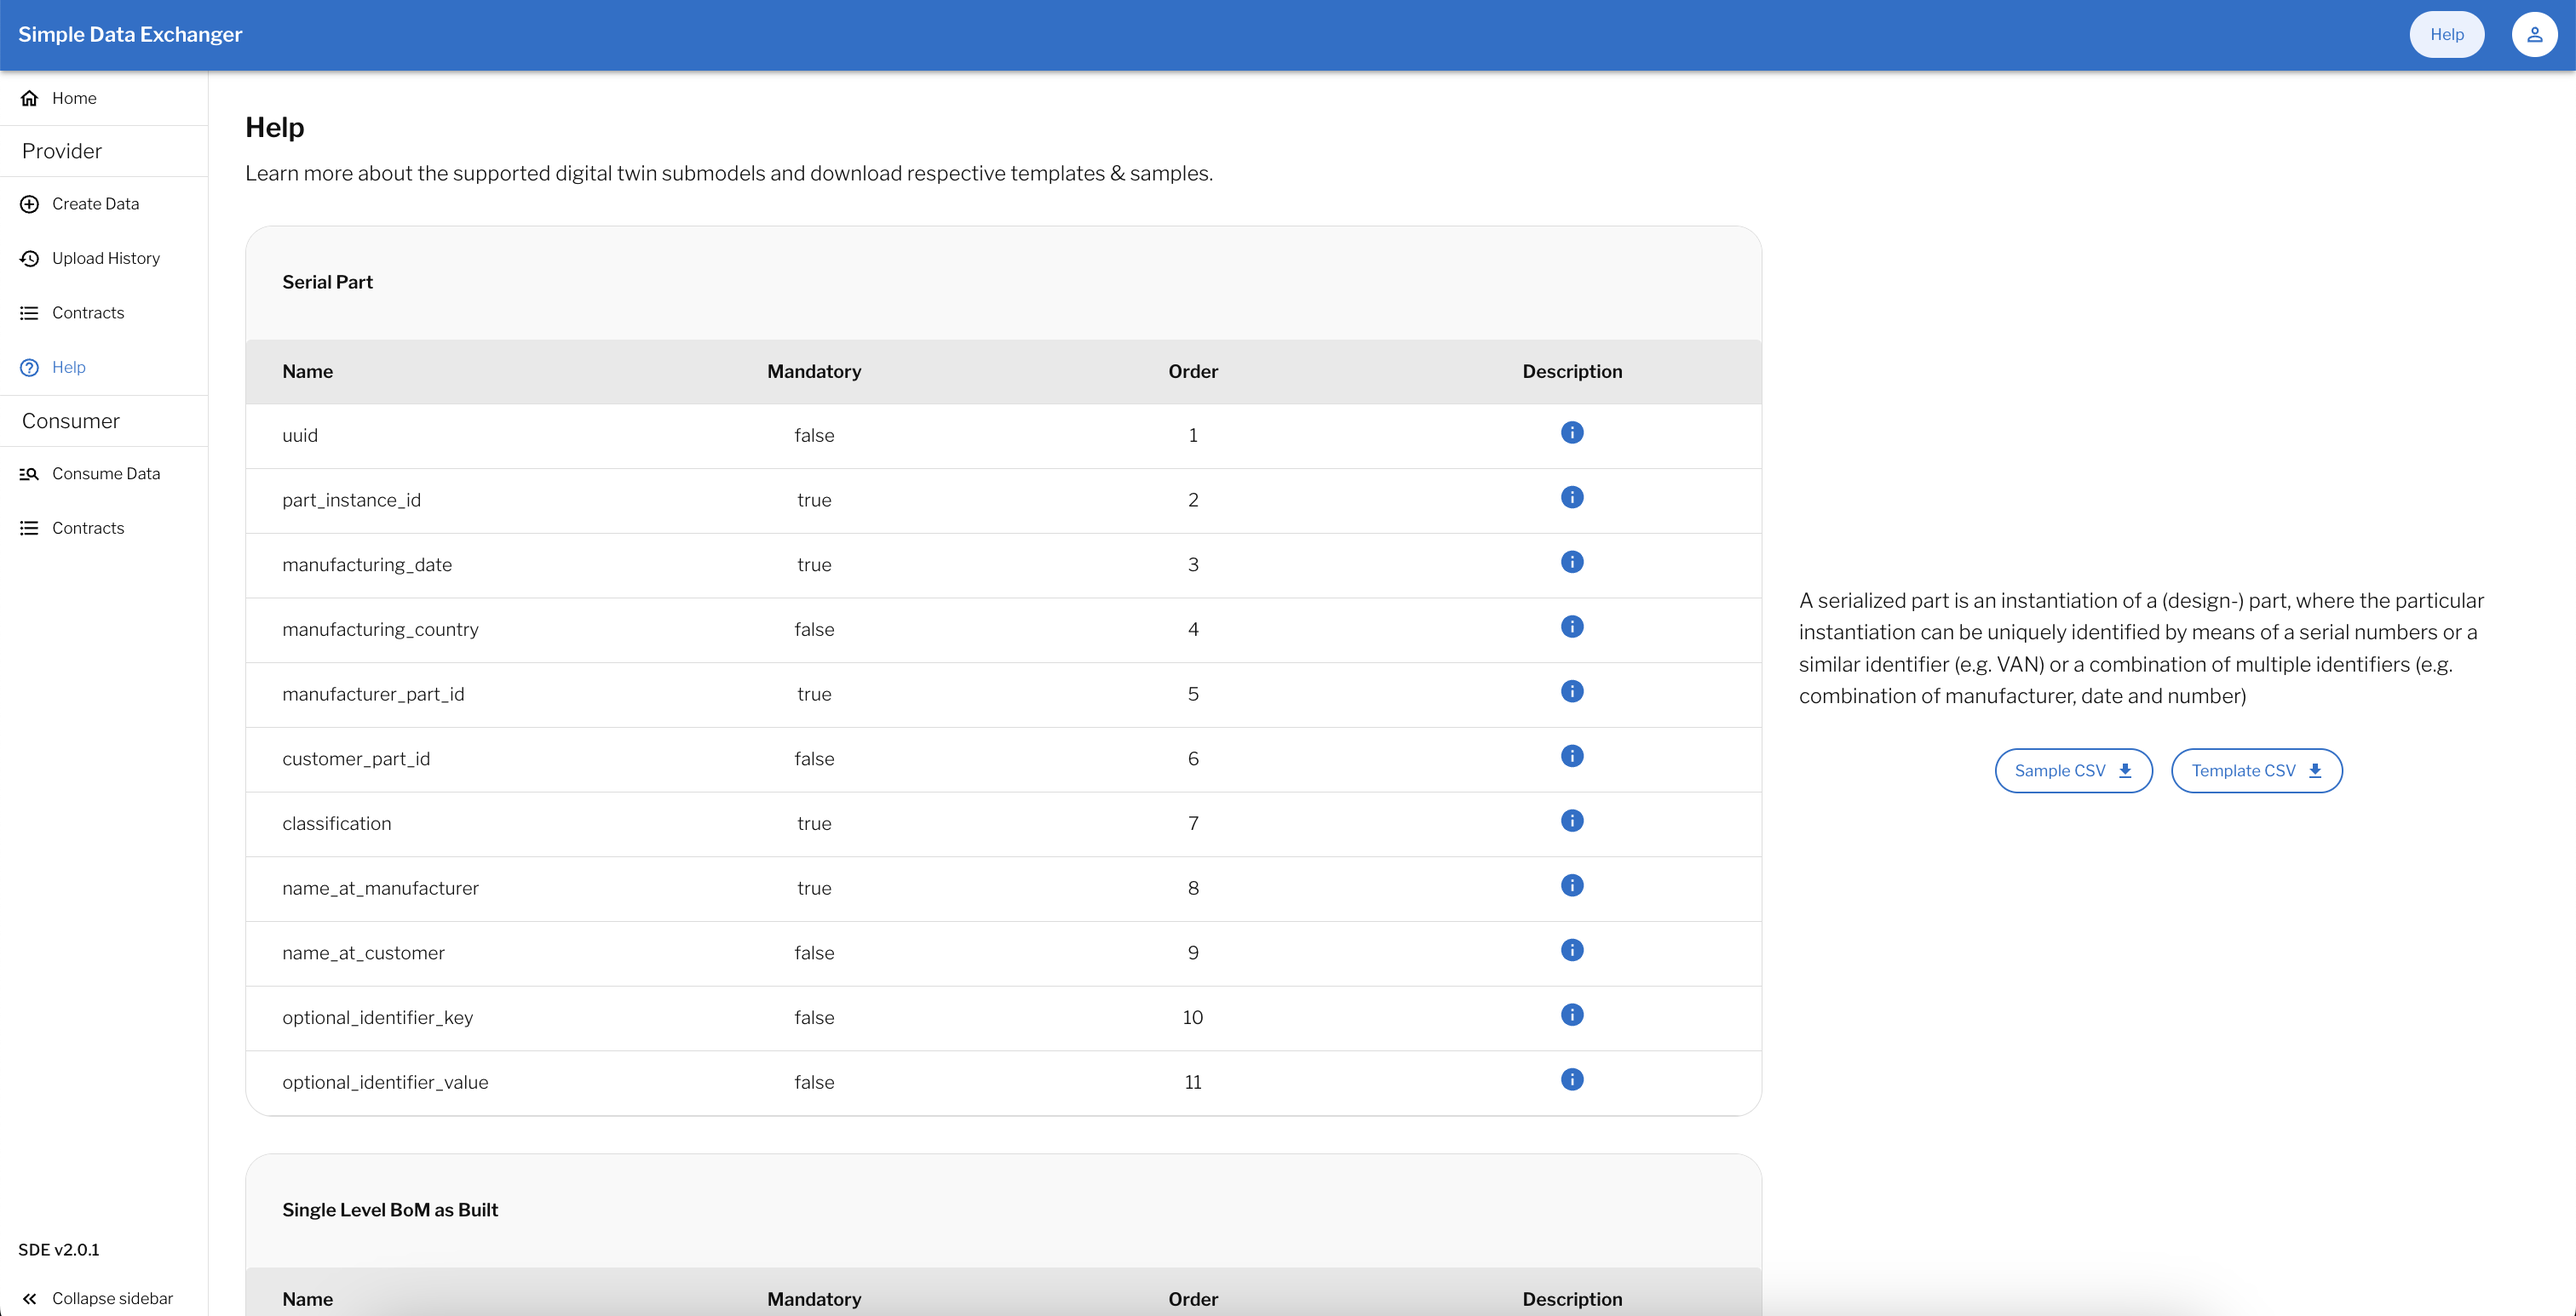
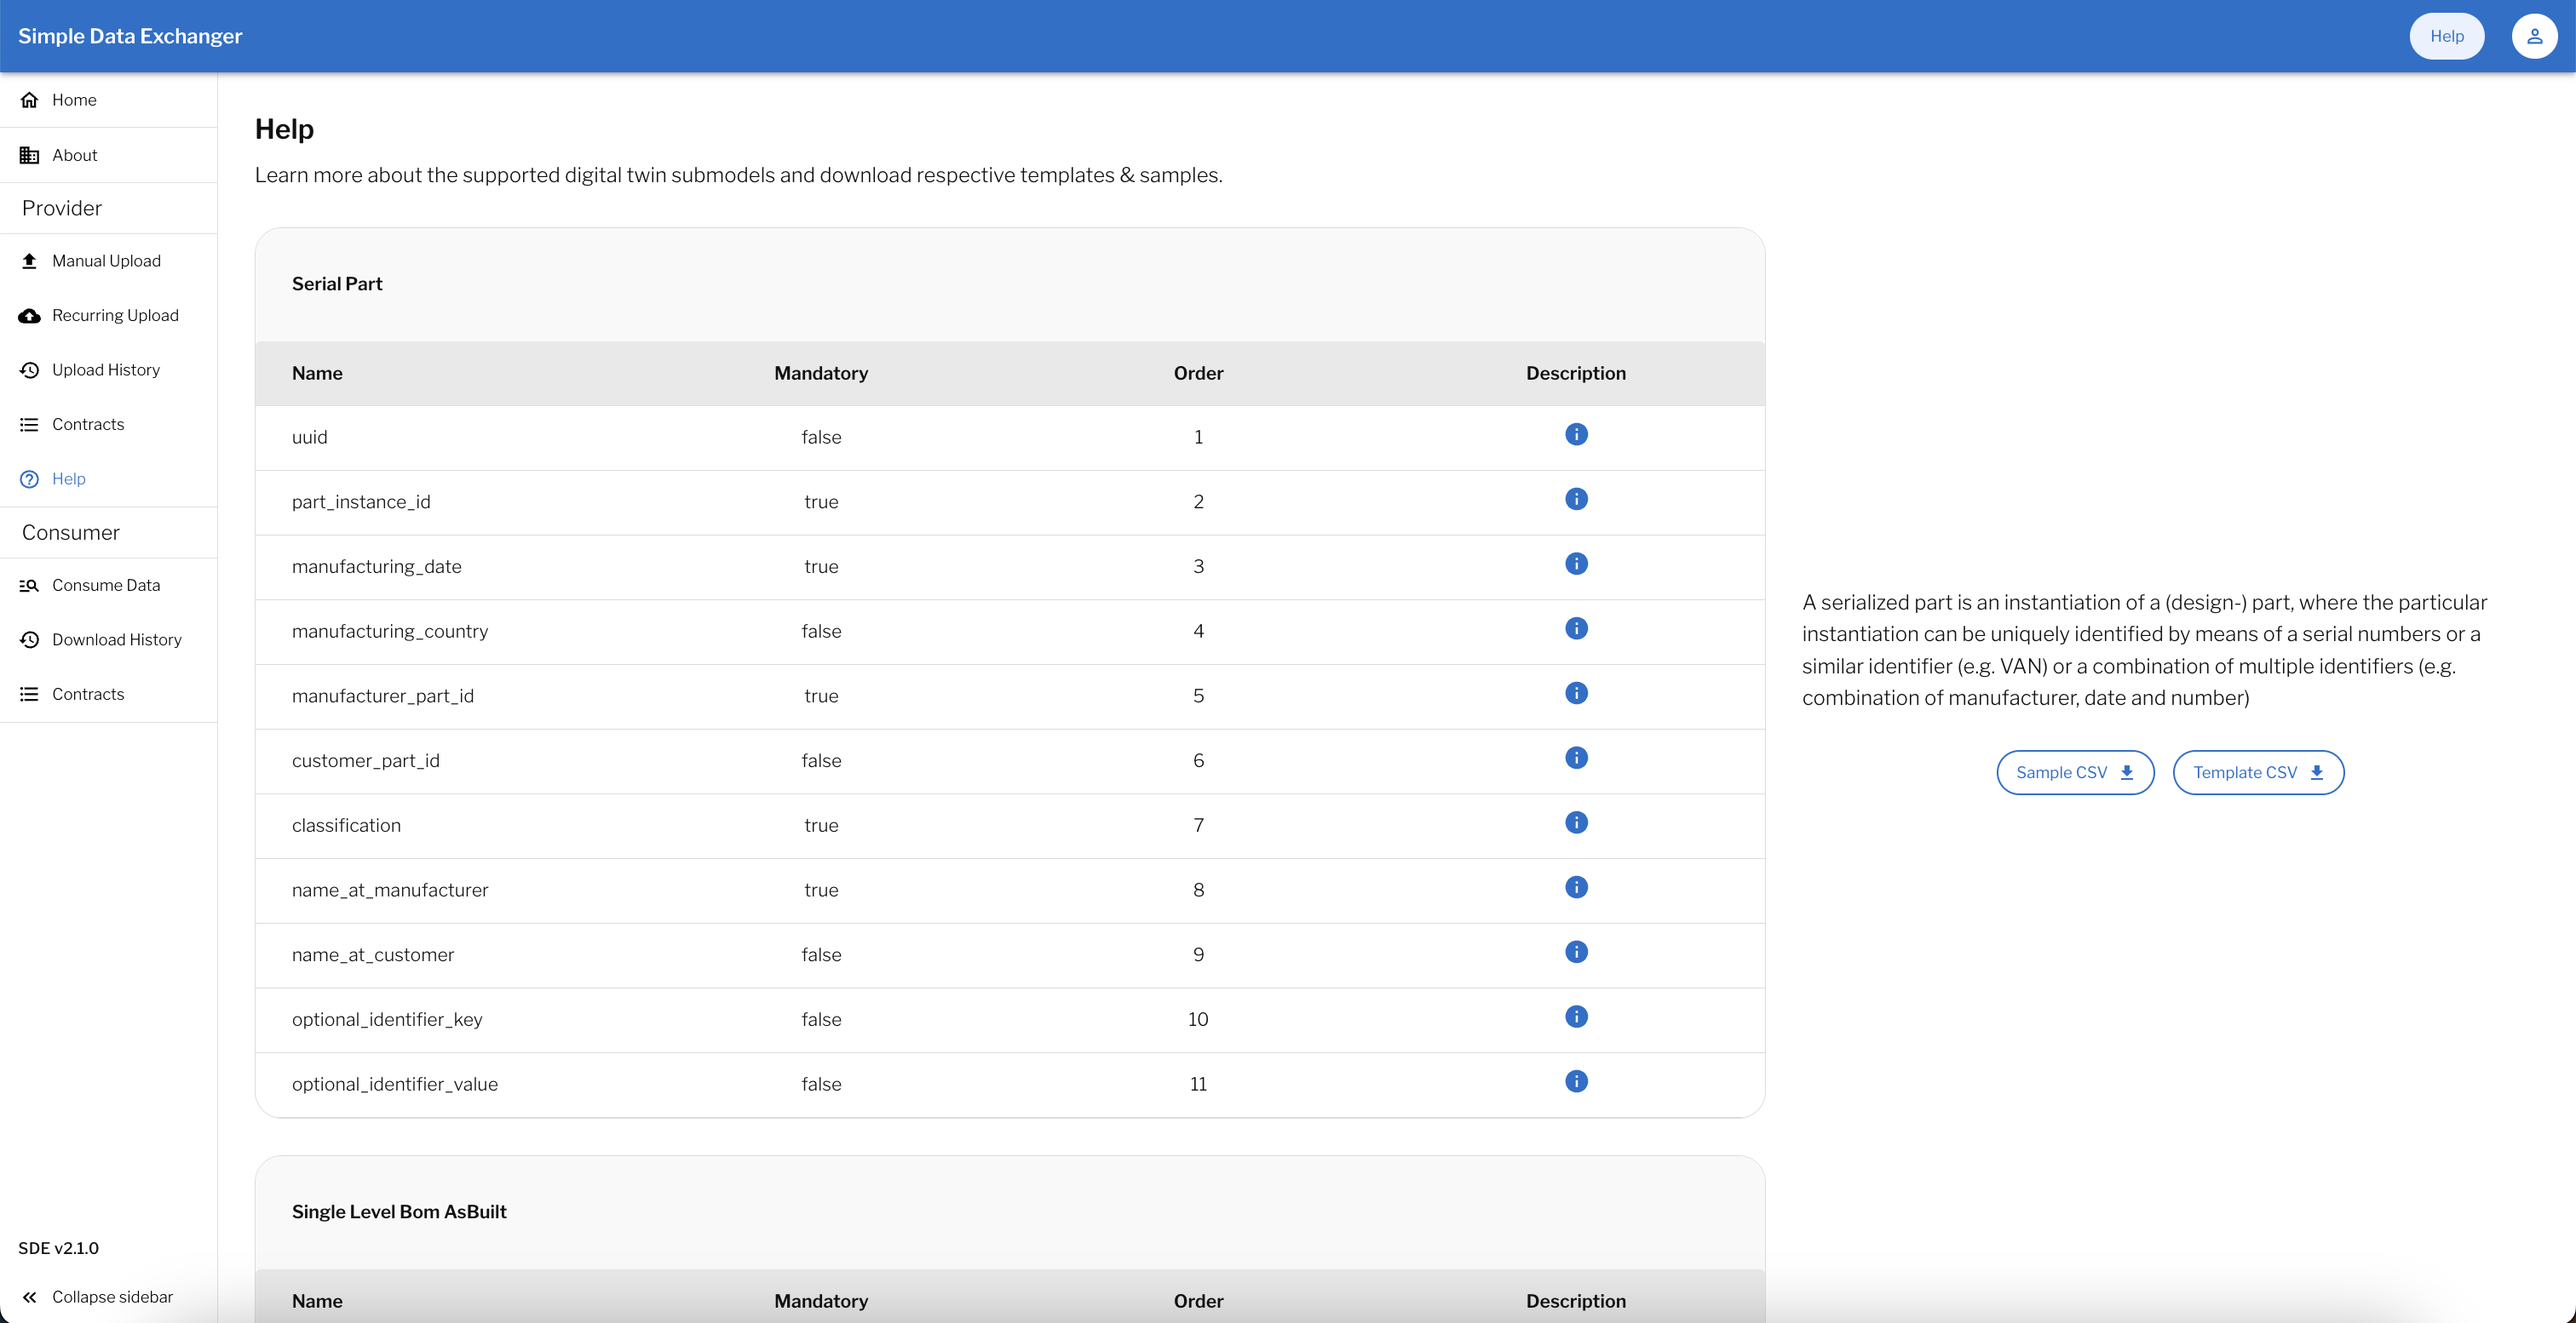
FE Documentation Update.

diff --git a/docs/user-guide/README.md b/docs/user-guide/README.md
@@ -20,8 +20,9 @@ This work is licensed under the [Apache-2.0](https://www.apache.org/licenses/LIC
     - [Main navigation](#left-side-menu)
 - [Features](#features)
   - [Home](#home)
+  - [About](#about)
   - [Provider](#provider)
-    - [Create Data](#create-data)
+    - [Manual Upload](#manual-upload)
       - [Upload File](#upload-file)
       - [Manual Entry](#manual-entry)
         - [Serial Part](#serial-part-typization)
@@ -32,11 +33,13 @@ This work is licensed under the [Apache-2.0](https://www.apache.org/licenses/LIC
         - [Part Site Information As Planned](#part-site-information-as-planned)
         - [Single Level Usage As Built](#single-level-usage-as-built)
         - [Product Carbon Footprint](#product-carbon-footprint)
+    - [Recurring Upload](#recurring upload)
     - [Upload history](#upload-history)
     - [Contracts](#provider-contracts)
     - [Help](#help)
   - [Consumer](#consumer)
     - [Consume Data](#consume-data)
+    - [Downlaod History](#download-history)
     - [Contracts](#consumer-contracts)
 
 # Getting started
@@ -83,10 +86,12 @@ SDE navigation is based on a header and a left-side menu.
 On the left side menu, it is possible to navigate the Simple Data Exchanger application by choosing each the following options / features:
 
 - Home
+- About
 
 **Provider**
 
-- Create Data
+- Manual Upload
+- Recurring Upload
 - Upload History
 - Contracts
 - Help
@@ -94,6 +99,7 @@ On the left side menu, it is possible to navigate the Simple Data Exchanger appl
 **Consumer**
 
 - Consume Data
+- Download History
 - Contracts
 
 [-- end of 'navigation' section --]: #
@@ -106,11 +112,17 @@ On the left side menu, it is possible to navigate the Simple Data Exchanger appl
 
 After successful login, user will be redirected to this page by default in the Simple Data Exchanger application. This page contains the overview of the application and use cases selection.
 
-Submodels in the Create Data page will be filtered out based on the usecase selection by user.
+Submodels in the Manual Upload page will be filtered out based on the usecase selection by user.
+
+# **About**
+
+<img src="images/sde-about.png" height="60%" width="60%" />
+
+In this page you can find the source links of License, Notice, Base Repository and Git-hub Commit ID of the latest version.
 
 # **Provider**
 
-## Create Data
+## Manual Upload
 
 In this page, list of available submodels will be fetched dynamically and we can select any submodel to generate the table or json of that selected submodel based on the schema provided by backend API.
 
@@ -148,7 +160,7 @@ After successful file upload of the supported file format i.e. CSV, the button "
 
 Access policy can either be unrestricted or restricted to some Business Partner Numbers. Your own organization will always be allowed to access the data.  We can add BPN numbers by selecting Company Name or entering Business Partner Number   and clicking on Add button.
 
-There are 4 types of Usage Policies we can configure namely Duration, Purpose, Role and Custom Restriction.
+There are 2 types of Usage Policies we can configure namely Duration and Purpose.
 For every usage policy we have restricted and unrestricted options.
 If we selected Restricted option for any usage policy, then we need to enter or select any respective valid text value.
 
@@ -193,6 +205,20 @@ You can add and submit multiple data offers via Manual entry option for particul
 We also can delete multiple rows by selecting which rows we want to delete and then click on Delete Row(s) button.
 
 Then you need to configure Access and Usage policies by clicking on "Next Step - Configure Policies" button and after successful configuration, click on Submit button from policy dialog to upload bulk data offers at once.
+
+## Recurring Upload
+
+<img src="images/sde-recurring-upload.png" height="60%" width="60%" />
+
+You can utilize the SDE for automated CSV file uploads. You must use the SFTP interface to transfer your CSV files to cloud storage. The SDE will then upload the CSV files according to the parameters.
+
+- Policies
+- Schedules
+- SFTP Configuration
+- Email Configuration
+- Settings
+
+User can change the above parameters accordingly.
 
 ## Upload history
 
@@ -256,17 +282,27 @@ After clicking on the "Consume Data" link in the sidebar navigation menu, user w
 
 The table provides convinient features like Filter by, Sorting, Global search, Pagination, Export.
 
-<img src="images/offer-details-view-subscribe.png" height="40%" width="40%" />
+<img src="images/offer-details-view-subscribe-download.png" height="40%" width="40%" />
 
 Also we can view and subscribe individual data offer by clicking on the respective row to open the offer details popup.
-The offer details dialog will populate all the basic metadata of the selected offer, Access policy and Usage policy details.
-You can subscribe the data offer by clicking on "Subscribe" button and accepting the terms.
+The offer details dialog will populate all the basic metadata of the selected offer and Usage policy details.
+You can subscribe the data offer by clicking on "Subscribe and download" button and accepting the terms.
+Zip file will be downloaded with respected data offer sub-model csv file with actual data which was used to create the data offer.
 
-<img src="images/multiple-offers-subscribe.png" height="60%" width="60%" />
+<img src="images/multiple-offers-subscribe-download.png" height="60%" width="60%" />
 
-User can also subscribe to multiple data offers at a time by ticking or checking the checkbox in front of the data offers and clicking on the button "Subscribe to Selected" present at top right section of the data offers table.
+User can also subscribe to multiple data offers at a time by ticking or checking the checkbox in front of the data offers and clicking on the button "Subscribe and download" present at top right section of the data offers table.
 Please note that, user can only subscribe to multiple data offers if the offers have exact similar usage policies configured.
-After clicking on Subscribe button and agreeing to the terms and conditions, the contract agreements establishment process will start for all of the selected data offers for the subscription.
+After clicking on Subscribe and download button and agreeing to the terms and conditions, the contract agreements establishment process will start for all of the selected data offers for the subscription.
+ip file will be downloaded with respected data offers sub-models csv file with actual data which was used to create the data offers.
+
+## Download History
+
+<img src="images/sde-download-history.png" height="60%" width="90%" />
+
+This history overviews your company's downloaded data from the Catena-X ecosystem. All activities are listed here. You can download the data again from this history list. 
+User can view the status of download and view error under Status column.
+
 
 ## Consumer Contracts
 
